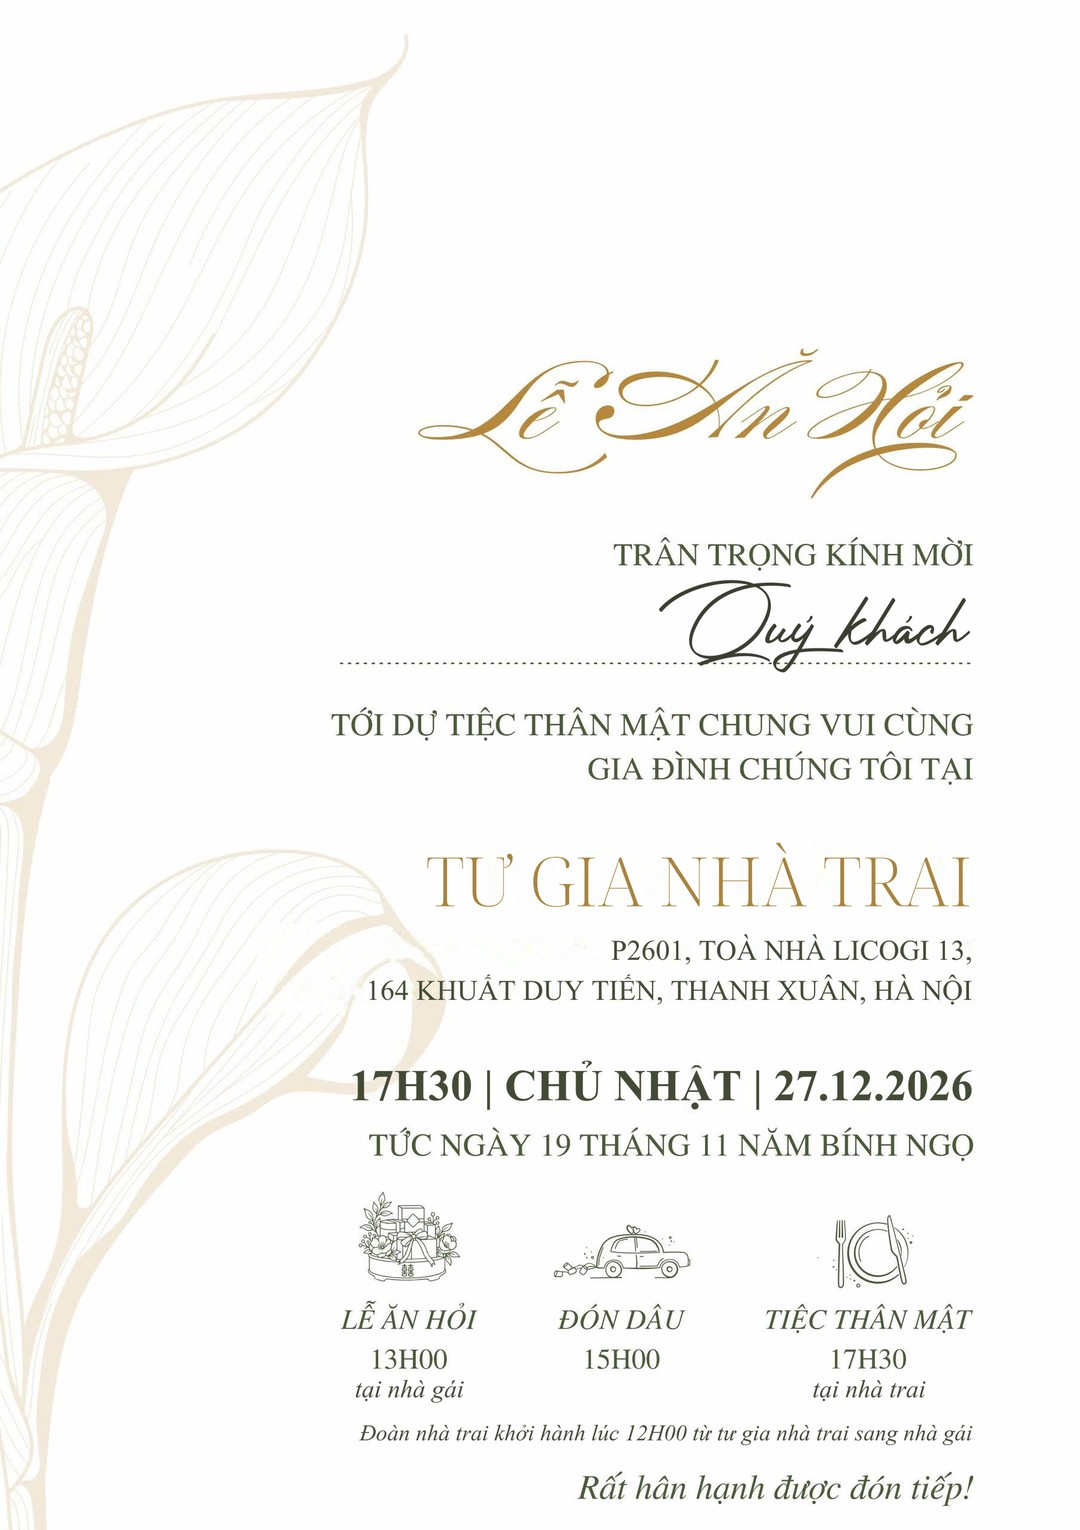
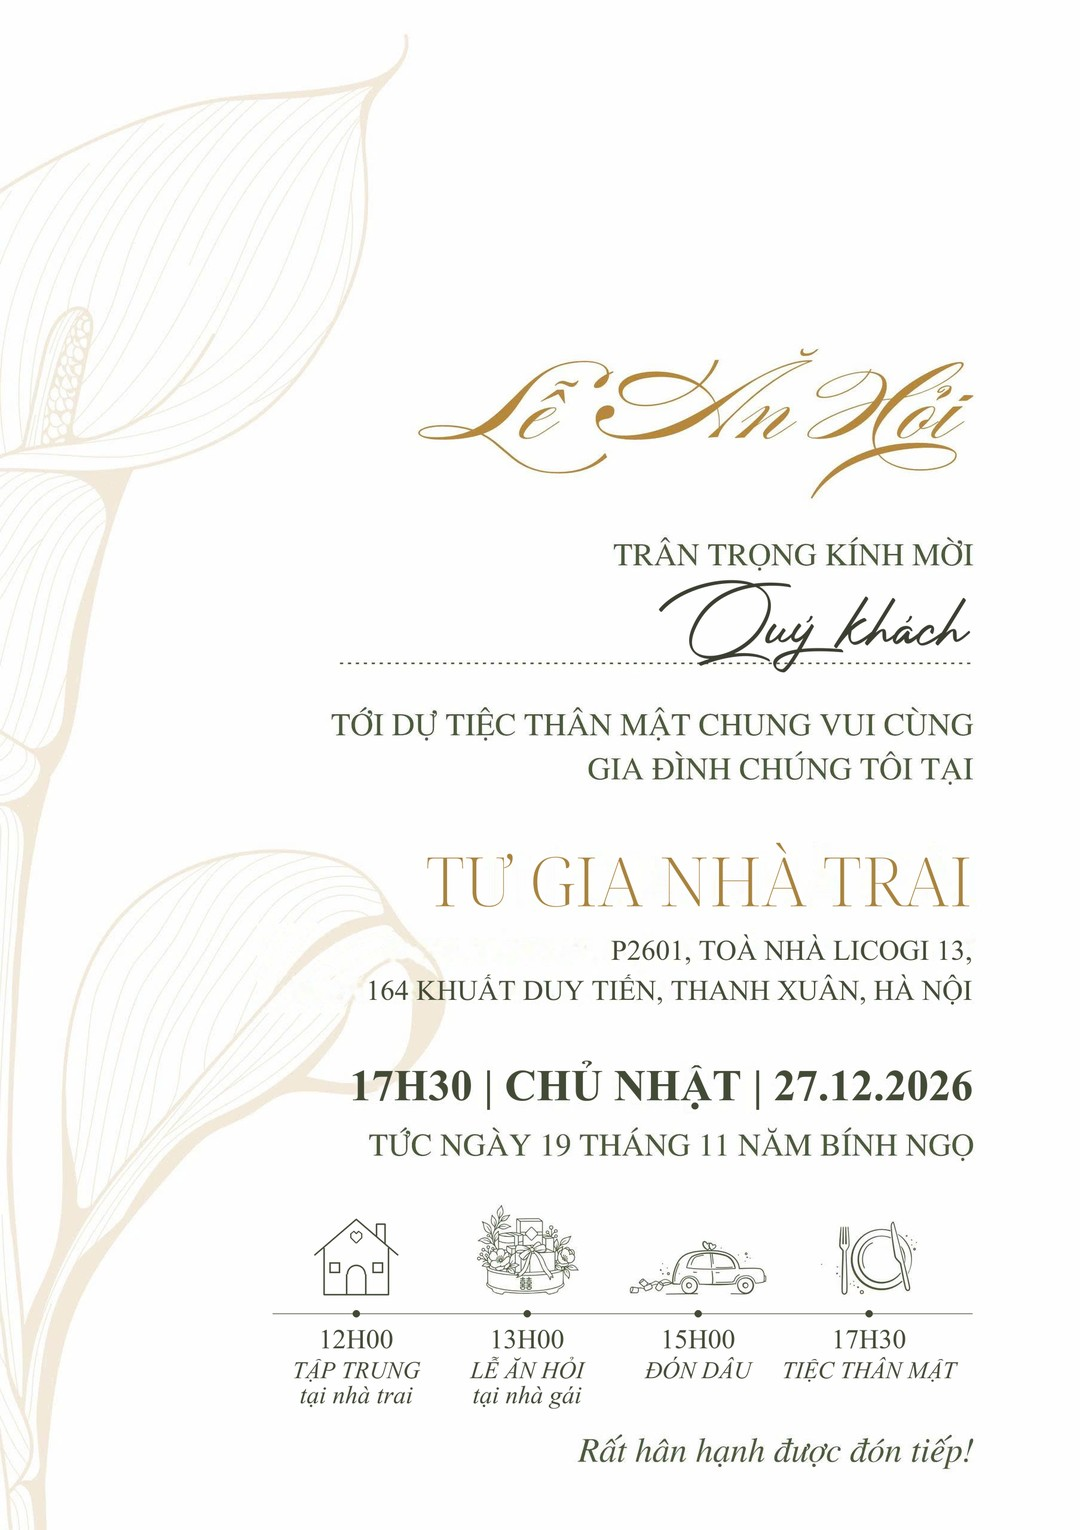
Màn chào thêm ngày ăn hỏi 27.12.2026; thiệp ăn hỏi: hàng biểu tượng thành timeline 4 mốc (12H00 tập trung tại nhà trai)

Changed region(s): [[0.275, 0.768, 0.9167, 0.983]]

diff --git a/script.js b/script.js
@@ -871,6 +871,12 @@
     $("bia-logo").hidden = !C.logo;
     $("bia-ten").textContent = mt.ten || "";
     $("bia-ngay").textContent = mt.ngay || "";
+    if (mt.ngayTruoc) {   // ngày lễ ăn hỏi, đặt phía trên ngày cưới, cùng kiểu chữ
+      var ngayTruoc = document.createElement("p");
+      ngayTruoc.className = "bia-ngay";
+      ngayTruoc.textContent = mt.ngayTruoc;
+      $("bia-ngay").parentNode.insertBefore(ngayTruoc, $("bia-ngay"));
+    }
     // Có ảnh lego thật thì dùng ảnh; không thì dùng hình vẽ
     var datDoi = function (o, h) {
       h = h || {};

diff --git a/config.js b/config.js
@@ -13,6 +13,7 @@ window.THIEP = {
   moThiep: {
     bat: true,
     ten: "Save the date",   // dòng chữ dưới logo trên màn mở thiệp
+    ngayTruoc: "27 . 12 . 2026",   // ngày lễ ăn hỏi, hiện trên dòng ngày cưới (để "" thì không hiện)
     ngay: "02 . 01 . 2027",
     // Ảnh đôi lego (nền trong suốt).
     //  - doi: một ảnh chung cho cả đôi (đang dùng, tách từ tranh nguon/lego-moi-goc.jpg)

diff --git a/cong-cu/tao_thiep_phu.py b/cong-cu/tao_thiep_phu.py
@@ -165,21 +165,60 @@ co_ngay, day_ngay = khop("13H00 | CHỦ NHẬT | 27.12.2026", TIMES_DAM, (587, 1
 an_hoi = xoa_chu(an_hoi, (560, 1765, 1645, 1868), 205)
 viet("17H30 | CHỦ NHẬT | 27.12.2026", phong(TIMES_DAM, co_ngay), LE_PHAI + 1, day_ngay)
 
-# d) dời "Rất hân hạnh được đón tiếp!" xuống sát đáy để có chỗ cho hai dòng mới
-VUNG_CAM_ON, XUONG = (900, 2385, 1660, 2475), 62
-dong = an_hoi.crop(VUNG_CAM_ON)
-nen = tuple(int(v) for v in np.median(np.asarray(dong).reshape(-1, 3), axis=0))
-an_hoi.paste(Image.new("RGB", dong.size, nen), VUNG_CAM_ON[:2])
-an_hoi.paste(dong, (VUNG_CAM_ON[0], VUNG_CAM_ON[1] + XUONG))
-
-# e) "tại nhà gái" dưới LỄ ĂN HỎI 13H00, "tại nhà trai" dưới TIỆC THÂN MẬT 17H30 (tâm cột đo trên ảnh)
+# d) hàng biểu tượng -> timeline 4 mốc: 12H00 tập trung tại nhà trai · 13H00 lễ ăn hỏi tại nhà gái · 15H00 đón dâu
+#    · 17H30 tiệc thân mật. Biểu tượng tráp / xe hoa / bát đĩa cắt từ thiệp; mốc 12H00 vẽ thêm ngôi nhà cùng nét.
+#    Biểu tượng nằm trên một đường kẻ ngang có chấm tròn, dưới là giờ, tên mốc và nơi (như tờ chương trình tiệc cưới).
+nen_trang = tuple(int(v) for v in np.median(np.asarray(an_hoi.crop((1100, 2300, 1640, 2380))).reshape(-1, 3), axis=0))
+BT_GOC = {"trap": (596, 1990, 773, 2147), "xe": (923, 2045, 1158, 2142), "dia": (1364, 2029, 1531, 2158)}
+bt = {k: an_hoi.crop(v) for k, v in BT_GOC.items()}
+co_nhan, _ = khop("LỄ ĂN HỎI", TIMES_NGHIENG, (571, 2177, 797, 2229))
 co_gio, _ = khop("13H00", TIMES, (624, 2257, 747, 2290))
-f_noi = phong(TIMES_NGHIENG, co_gio * .92)
-viet("tại nhà gái", f_noi, 685, 2338, neo="ms")
-viet("tại nhà trai", f_noi, 1454, 2338, neo="ms")
+an_hoi.paste(Image.new("RGB", (1645 - 430, 2310 - 1985), nen_trang), (430, 1985))   # vùng này chỉ có chữ trên nền trắng
 
-# f) dòng nghiêng: đoàn nhà trai khởi hành 12H00
-viet("Đoàn nhà trai khởi hành lúc 12H00 từ tư gia nhà trai sang nhà gái", phong(TIMES_NGHIENG, 38), LE_PHAI, 2410)
+
+def ve_nha(rong=150):
+    """Ngôi nhà nét mảnh màu xanh rêu, cùng độ dày nét với các biểu tượng trên thiệp."""
+    k, s = 4, rong / 150
+    w, h = round(rong * k) + 8, round(132 * s * k) + 8
+    l = Image.new("L", (w, h), 0)
+    d = ImageDraw.Draw(l)
+    nk = round(2.4 * k)
+    def P(*ds):
+        return [((x * s + 75 * s) * k + 4, (y * s + 66 * s) * k + 4) for x, y in ds]
+    d.line(P((-70, -2), (0, -62), (70, -2)), fill=255, width=nk, joint="curve")            # mái
+    d.line(P((34, -33), (34, -54), (48, -54), (48, -21)), fill=255, width=nk, joint="curve")  # ống khói
+    d.line(P((-54, -14), (-54, 64), (54, 64), (54, -14)), fill=255, width=nk, joint="curve")  # tường
+    d.line(P((-16, 64), (-16, 30)), fill=255, width=nk)                                       # cửa vòm
+    d.line(P((16, 64), (16, 30)), fill=255, width=nk)
+    x0, y0 = P((-16, 14))[0]; x1, y1 = P((16, 46))[0]
+    d.arc([x0, y0, x1, y1], 180, 360, fill=255, width=nk)
+    for cx in (-36, 36):                                                                      # hai ô cửa sổ
+        d.rectangle(P((cx - 9, 10), (cx + 9, 28)), outline=255, width=nk)
+    tim = [(0, -22), (-9, -31), (-9, -38), (-4, -42), (0, -38), (4, -42), (9, -38), (9, -31), (0, -22)]
+    d.line(P(*tim), fill=255, width=round(2 * k), joint="curve")                              # trái tim trên đầu hồi
+    l = l.resize((w // k, h // k), Image.LANCZOS)
+    return l
+
+
+TAM = [596, 882, 1168, 1454]                 # tâm 4 cột, cột cuối giữ đúng chỗ cũ (lề phải chữ TIỆC THÂN MẬT)
+DAY_BT, Y_KE = 2165, 2198                    # chân các biểu tượng, hàng đường kẻ
+MOC = [("12H00", "TẬP TRUNG", "tại nhà trai", None), ("13H00", "LỄ ĂN HỎI", "tại nhà gái", "trap"),
+       ("15H00", "ĐÓN DÂU", "", "xe"), ("17H30", "TIỆC THÂN MẬT", "", "dia")]
+nha = ve_nha()
+for x, (gio, ten, noi, k_bt) in zip(TAM, MOC):
+    if k_bt:
+        im = bt[k_bt]
+        an_hoi.paste(im, (round(x - im.width / 2), DAY_BT - im.height + 4))
+    else:
+        an_hoi.paste(Image.new("RGB", nha.size, MAU_XANH), (round(x - nha.width / 2), DAY_BT - nha.height + 4), nha)
+    viet(gio, phong(TIMES, co_gio), x, Y_KE + 58, neo="ms")
+    viet(ten, phong(TIMES_NGHIENG, co_nhan * .86), x, Y_KE + 108, neo="ms")
+    if noi:
+        viet(noi, phong(TIMES_NGHIENG, co_gio * .92), x, Y_KE + 150, neo="ms")
+ve = ImageDraw.Draw(lop_moi[MAU_XANH])
+ve.line([((TAM[0] - 140) * K, Y_KE * K), (LE_PHAI * K, Y_KE * K)], fill=170, width=round(1.6 * K))
+for x in TAM:
+    ve.ellipse([(x - 6) * K, (Y_KE - 6) * K, (x + 6) * K, (Y_KE + 6) * K], fill=255)
 
 for mau, lop_m in lop_moi.items():
     an_hoi = Image.composite(Image.new("RGB", an_hoi.size, mau), an_hoi, lop_m.resize(an_hoi.size, Image.LANCZOS))
